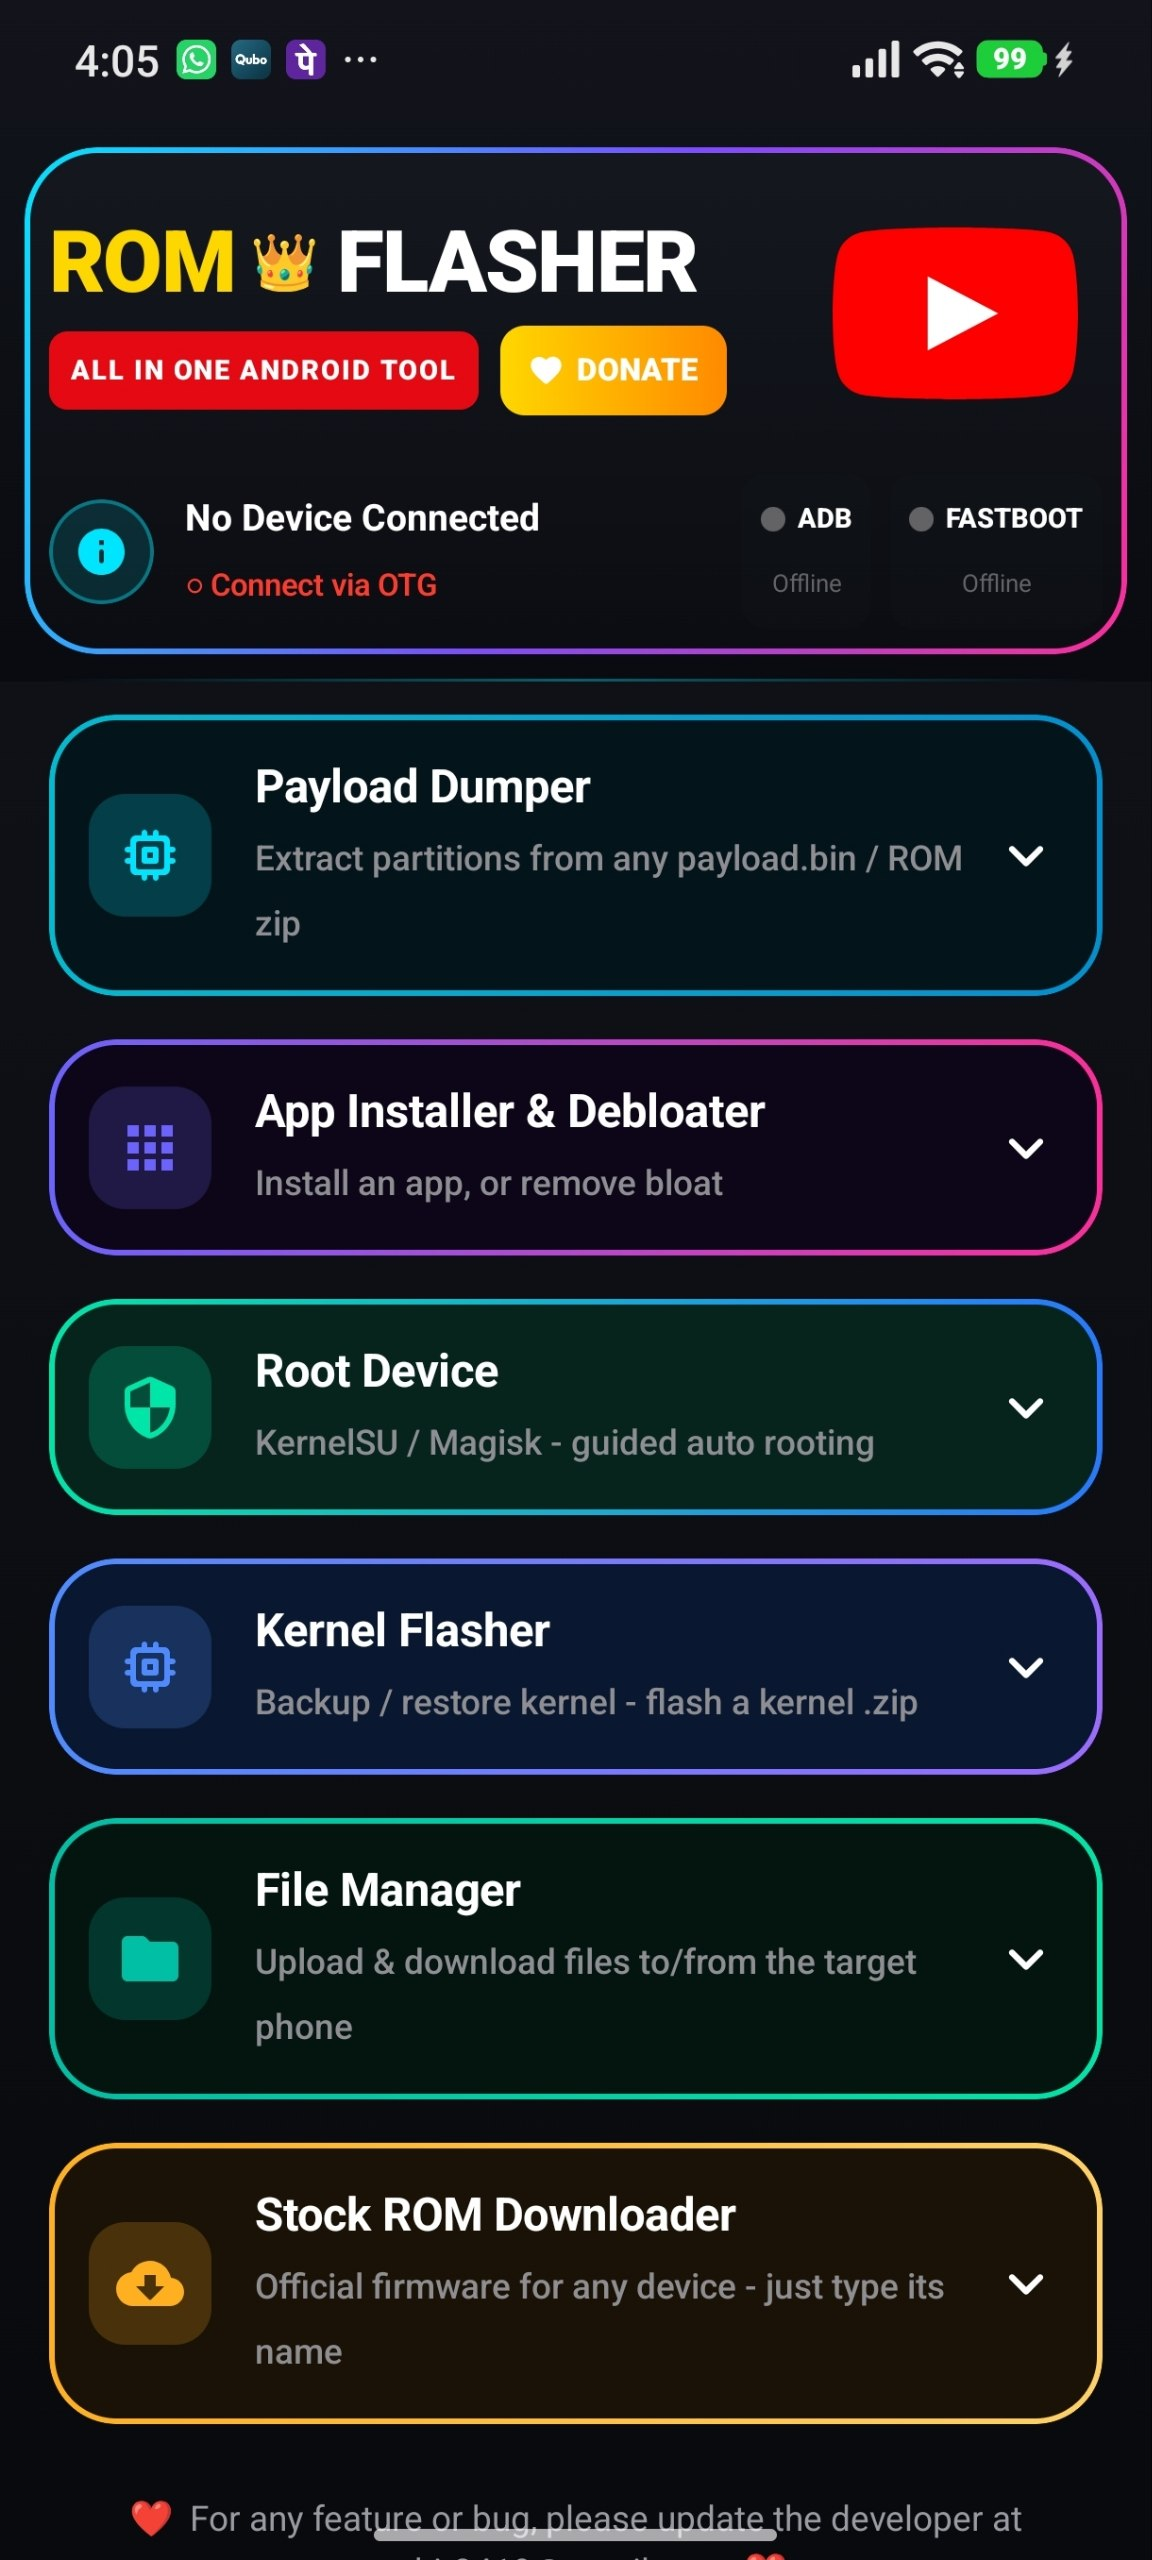
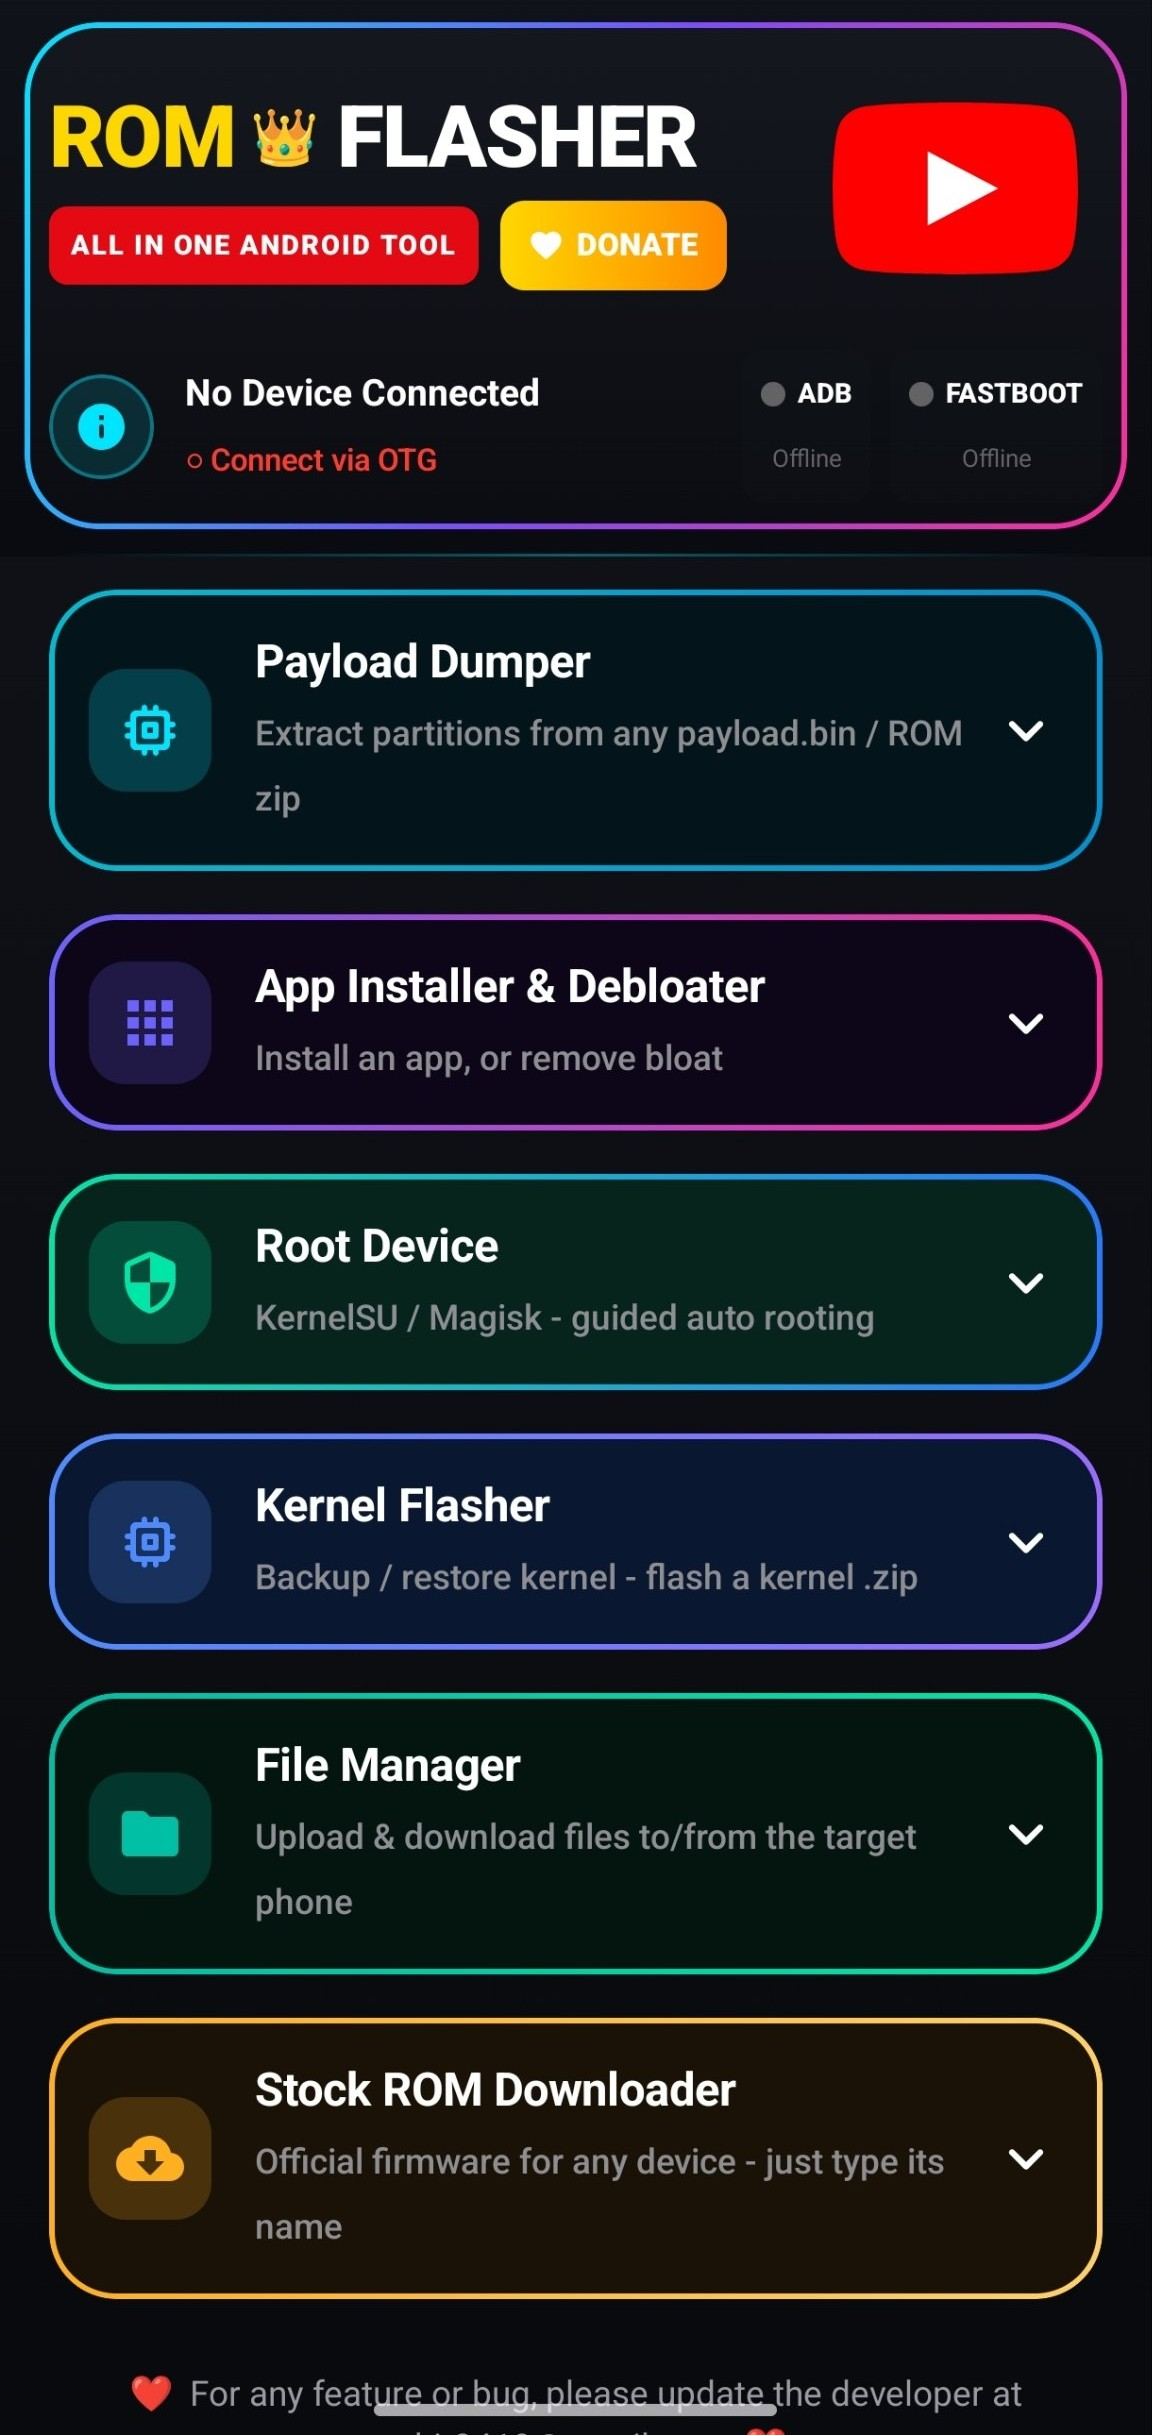
Release v1.1.0

diff --git a/RELEASE_NOTES.md b/RELEASE_NOTES.md
@@ -1,20 +1,21 @@
-# 🚀 ROM Flasher Tool v1.0.0
+# 🎉 ROM Flasher Tool v1.1.0 — UNLOCKED FOR EVERYONE
 
-**Flash Fastboot & custom ROMs — Android → Android, over USB-OTG. No PC. No Termux.**
+**The 2,000-subscriber milestone is complete!** 🎉
 
----
-
-## 🔒 This is a LOCKED PREVIEW
-
-This build **unlocks for everyone** once the **[Rom Flasher YouTube channel](https://www.youtube.com/@Rom_Flasher) reaches 2,000 subscribers.**
-
-👉 **[Subscribe on YouTube](https://www.youtube.com/@Rom_Flasher)** — it's free, and it takes the app one step closer to being free for all.
-
-Already have an unlock code? Open the app → **"Already have an unlock code?"** → enter your **Device Code** + **6-digit PIN**.
+The **[Rom Flasher YouTube channel](https://www.youtube.com/@Rom_Flasher)** crossed **2,000 subscribers**, and just like we promised, the app is now **fully unlocked for everyone**.
 
 ---
 
-## ✨ What's inside
+## 🔓 What changed in this build
+
+- **Lock screen removed** — no more "locked preview", no unlock code, nothing to enter. Open the app and use it.
+- Everything else is the same app you already know: flashing, tools, ROM downloader, backups, debloater and more.
+
+> Subscribing (and sharing the tool with friends) still helps the channel a lot. ❤
+
+---
+
+## ✨ Full feature list
 
 **Flashing**
 - Flash Fastboot ROMs (`.bat` / `.sh` flash-script parsing)
@@ -46,11 +47,13 @@ Already have an unlock code? Open the app → **"Already have an unlock code?"**
 ## 📲 Install
 
 1. Download **`app-release.apk`** below.
-2. On your phone, allow **Install unknown apps** for your browser / file manager.
+2. Allow **Install unknown apps** for your browser / file manager.
 3. Install and open the app.
 4. Connect the target phone with a **USB-OTG cable**.
 
 > **Requirements:** Android 8.0+ · USB-OTG cable · unlocked bootloader for flashing.
+
+**Already on v1.0.0?** Just install this over it — it is signed with the same key, so your data and settings stay.
 
 ---
 
@@ -58,8 +61,8 @@ Already have an unlock code? Open the app → **"Already have an unlock code?"**
 
 ```
 File    : app-release.apk
-Size    : 9937825 bytes
-SHA-256 : 46DFE1C6B17DF962776874868F12A4C064BC6198458F2E54452263FD04B9E623
+Size    : __SIZE__ bytes
+SHA-256 : __SHA256__
 ```
 
 ---

diff --git a/README.md b/README.md
@@ -9,19 +9,19 @@
 [![Platform](https://img.shields.io/badge/Platform-Android%208.0%2B-3DDC84?logo=android&logoColor=white)](#)
 [![Kotlin](https://img.shields.io/badge/Kotlin-1.9-7F52FF?logo=kotlin&logoColor=white)](#)
 [![UI](https://img.shields.io/badge/UI-Jetpack%20Compose-4285F4?logo=jetpackcompose&logoColor=white)](#)
-[![Build](https://img.shields.io/badge/Build-Locked%20Preview-orange)](#-locked-preview)
+[![Build](https://img.shields.io/badge/Build-Unlocked-brightgreen)](https://www.youtube.com/channel/UC-Oc7NNVa0oW3nHI1L-3oKQ)
 [![YouTube](https://img.shields.io/badge/YouTube-Rom%20Flasher-FF0000?logo=youtube&logoColor=white)](https://www.youtube.com/channel/UC-Oc7NNVa0oW3nHI1L-3oKQ)
 
 </div>
 
 ---
 
-## 🔒 Locked Preview
+## 🎉 Unlocked for Everyone
 
-> **The public APK is currently a LOCKED preview.**
-> It unlocks **for everyone** once the **[Rom Flasher YouTube channel](https://www.youtube.com/channel/UC-Oc7NNVa0oW3nHI1L-3oKQ) reaches 2,000 subscribers.**
+> **The 2,000-subscriber milestone is COMPLETE! 🎉**
+> The **[Rom Flasher YouTube channel](https://www.youtube.com/channel/UC-Oc7NNVa0oW3nHI1L-3oKQ)** crossed **2,000 subscribers**, so the app is now **fully unlocked for everyone** — no lock screen, no unlock code, nothing to enter.
 
-Till then the released build is intentionally locked. Subscribe on YouTube, share the tool with your friends, and help the channel hit the target — then everyone gets the full app.
+A huge thank you to every single subscriber who made this happen. ❤ Download the latest release and enjoy the full tool. Subscribing (and sharing the tool) still helps the channel a lot.
 
 ---
 
